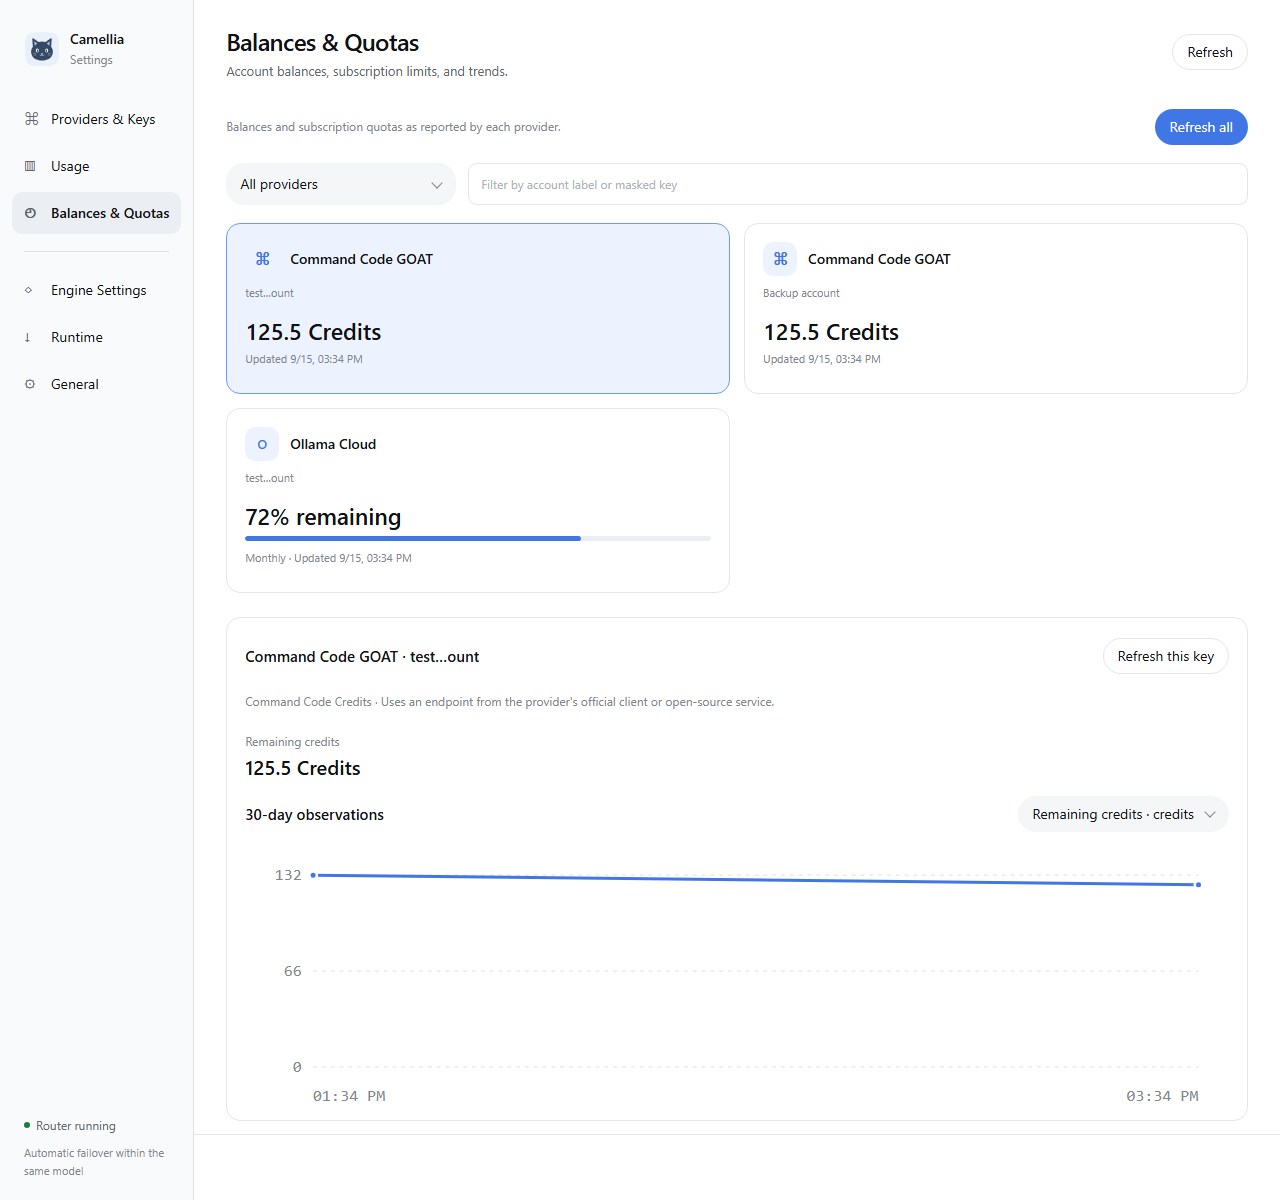
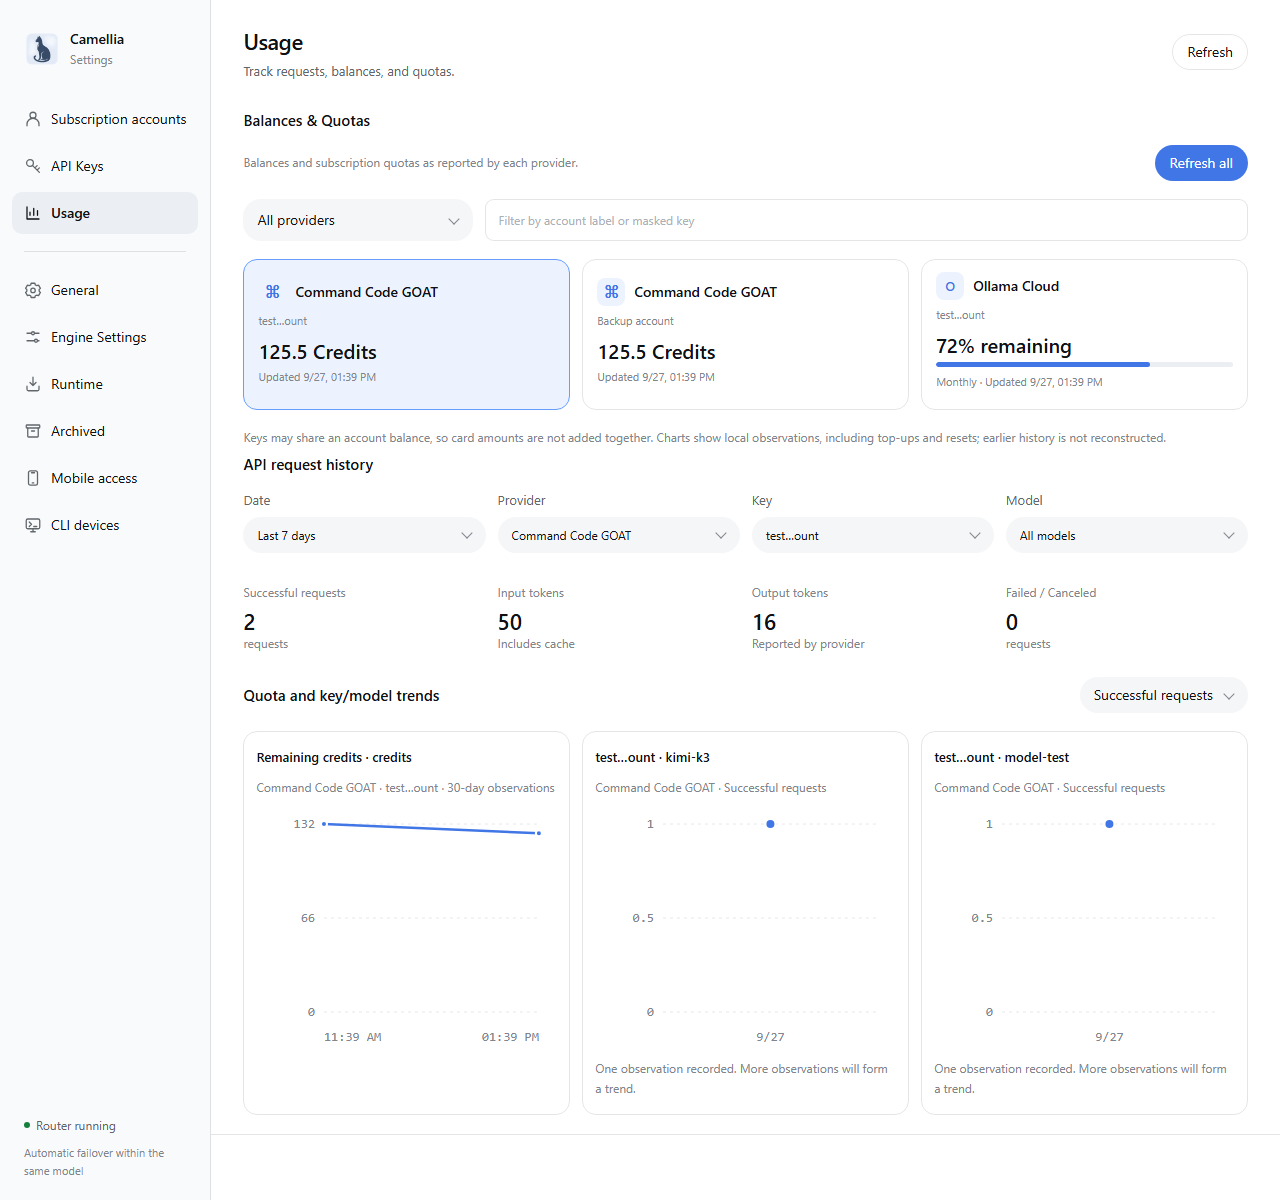
docs: refresh the README screenshots for the six-engine UI
All three images predated the Pi harness and the settings rework, so they showed
a five-engine product and the old navigation.

- Home: regenerate from the real page. The test fixture only listed five
  engines, so Pi silently fell back to its static "Open Pi" label instead of
  offering a download; add Pi to the fixture and assert its download button so
  the stale capture cannot come back
- Home: the new capture shows Pi plus the CLI devices entry
- Usage/balances: regenerate; the sidebar now shows Subscription accounts,
  API Keys, Archived, Mobile access and CLI devices instead of the removed
  combined entries
- Benchmark: render a saved v2 report through the real runner, which brings
  the page up to date with the Delete action and the v2 task set
- Point both benchmark captions at the model actually shown
  (DeepSeek V4.1 Flash, not Kimi K3)

The balances image stays demonstration data, as its caption already states.

diff --git a/tests/desktop-ui.py b/tests/desktop-ui.py
@@ -69,7 +69,8 @@ try:
                 if fresh and method == 'runtimeState':
                     return {'result': {'ok': True, 'engines': [
                         {'id': engine, 'name': name, 'status': 'missing'} for engine, name in
-                        [('claude', 'Claude Code'), ('codex', 'Codex CLI'), ('dsh', 'DeepSeek Harness'), ('kimi', 'Kimi Code'), ('antigravity', 'Antigravity')]
+                        [('claude', 'Claude Code'), ('codex', 'Codex CLI'), ('dsh', 'DeepSeek Harness'), ('kimi', 'Kimi Code'),
+                         ('antigravity', 'Antigravity'), ('pi', 'Pi')]
                     ]}}
                 return rpc(method, payload)
             page.expose_function('testRpc', page_rpc)
@@ -84,6 +85,10 @@ try:
             expect(landing.get_by_role('button', name='Download & open Codex', exact=True)).to_be_visible()
             expect(landing.get_by_role('button', name='Download & open Kimi', exact=True)).to_be_visible()
             expect(landing.get_by_role('button', name='Download & open Antigravity', exact=True)).to_be_visible()
+            # Every engine must be present and offer a download on a fresh
+            # install; a missing fixture entry silently rendered Pi with the
+            # static "Open Pi" fallback in the README screenshot.
+            expect(landing.get_by_role('button', name='Download & open Pi', exact=True)).to_be_visible()
             expect(landing.get_by_role('button', name='Settings', exact=True)).to_be_visible()
             landing.screenshot(animations='disabled', path=str(screenshots / f'home-{scheme}.png'))
             landing.keyboard.press('Tab')
@@ -96,8 +101,8 @@ try:
 
             downloads = new_page(1040, scheme=scheme, fresh=True)
             downloads.goto((repo / 'src/renderer/settings/api-settings.html').as_uri() + '?page=runtimes')
-            expect(downloads.locator('#runtimeCards [data-install]:not(:disabled)')).to_have_count(5)
-            expect(downloads.get_by_role('button', name='Download', exact=True)).to_have_count(5)
+            expect(downloads.locator('#runtimeCards [data-install]:not(:disabled)')).to_have_count(6)
+            expect(downloads.get_by_role('button', name='Download', exact=True)).to_have_count(6)
             downloads.goto((repo / 'src/renderer/settings/api-settings.html').as_uri() + '?page=general&focus=downloadProxyUrl')
             expect(downloads.locator('#generalPage')).to_be_visible()
             expect(downloads.locator('#downloadMode')).to_have_value('direct')

diff --git a/README.md b/README.md
@@ -92,7 +92,7 @@ Built-in **v2** starts with a basic ASCII text-formatting repair and a supplied 
 <img src="docs/images/benchmark.png" alt="Camellia benchmark results for five harnesses, with check scores, token usage, and per-task results">
 </td></tr></table>
 
-*Example: a five-minute preview using Kimi K3 on Ollama Cloud.*
+*Example: a five-minute preview using DeepSeek V4.1 Flash on Ollama Cloud.*
 
 Choose **Full library** to run every question in the selected library unattended, or **Custom sample** to choose task count and limits. Full-library mode shows the combined task/check time allowances and saves every attempt. Keep the application open and the computer awake; closing it stops the run.
 

diff --git a/README.zh-CN.md b/README.zh-CN.md
@@ -94,7 +94,7 @@ npm start
 <img src="docs/images/benchmark.png" alt="Camellia 五个 harness 的跑分结果，包含检查得分、token 用量和逐题结果">
 </td></tr></table>
 
-*示例：使用 Ollama Cloud 上的 Kimi K3 进行五分钟预览。*
+*示例：使用 Ollama Cloud 上的 DeepSeek V4.1 Flash 进行五分钟预览。*
 
 选择 **Full library（全集挂机）** 可运行所选题库的全部题目；**Custom sample（自选样本）** 保留题量和时限设置。全集模式显示任务与检查的累计时间额度，每次尝试后保存结果。挂机时保持应用打开、电脑唤醒；关闭应用会停止测试。
 
